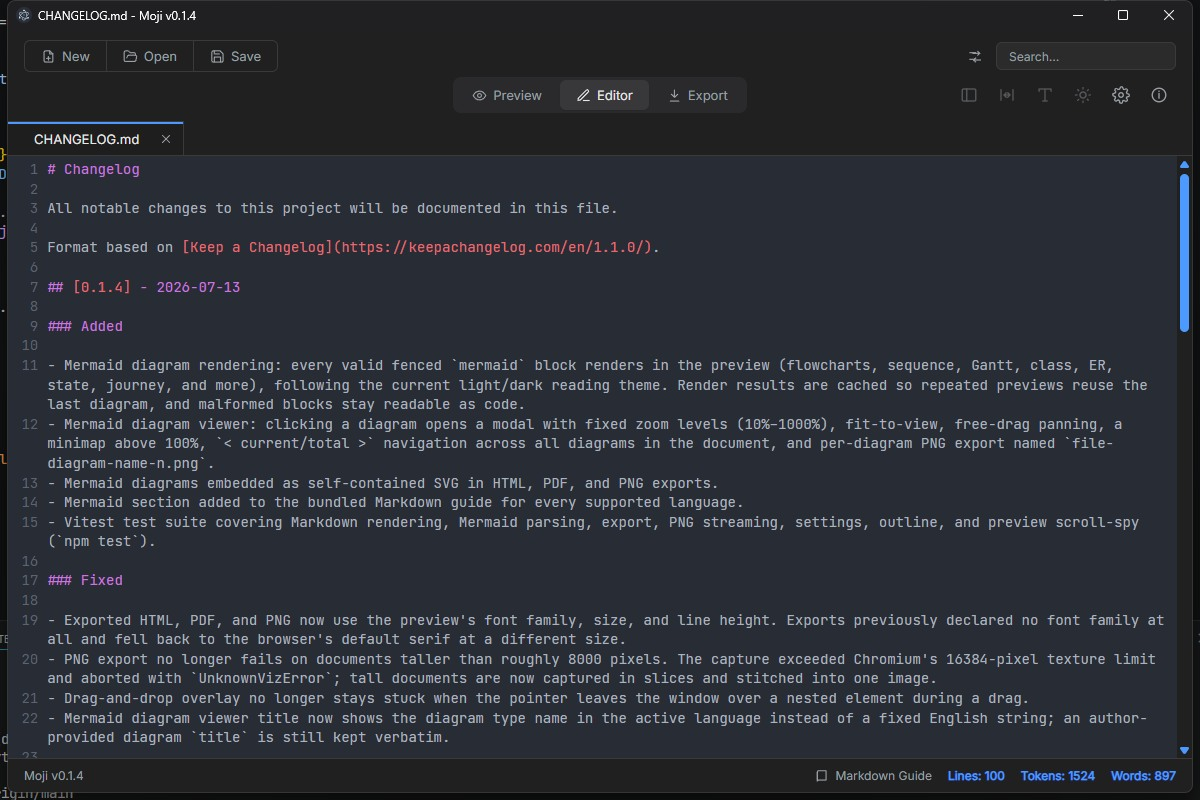
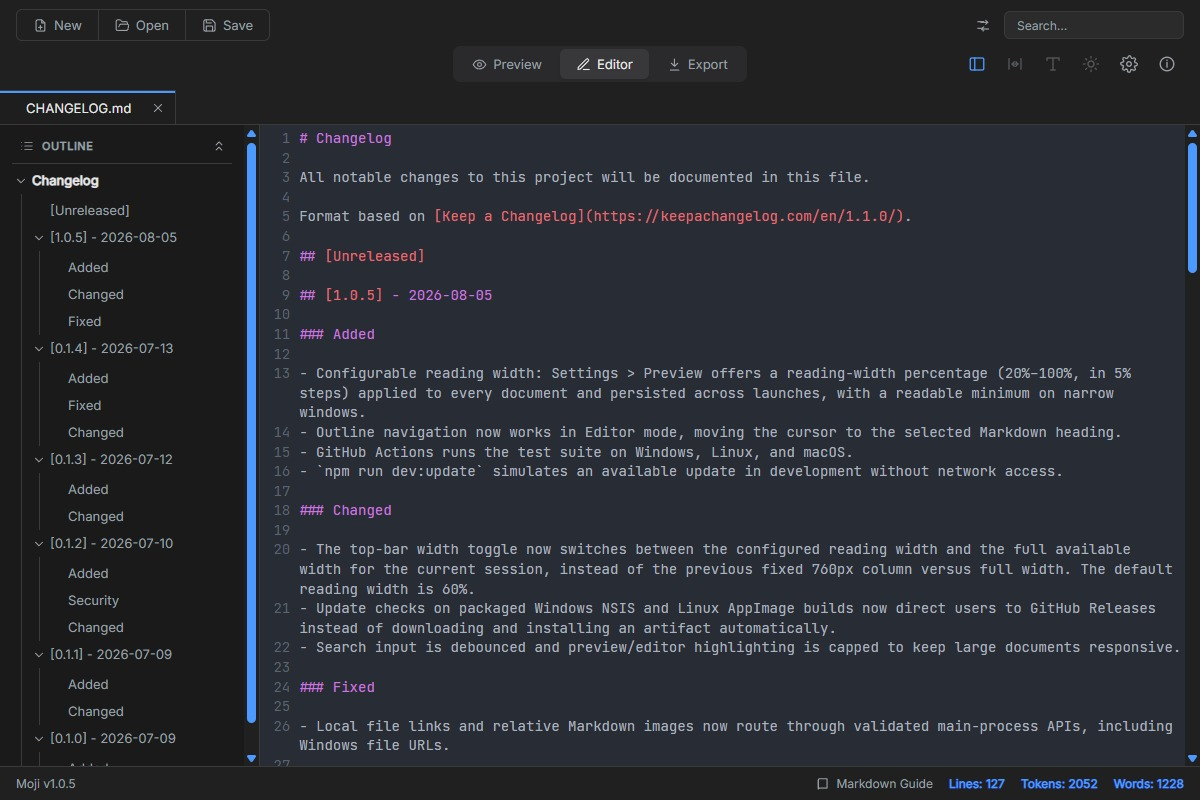
chore(release): 1.0.5

diff --git a/electron/updater.test.ts b/electron/updater.test.ts
@@ -13,7 +13,7 @@ vi.mock('electron', () => ({
     get isPackaged() {
       return state.isPackaged
     },
-    getVersion: () => '0.1.4'
+    getVersion: () => '1.0.5'
   }
 }))
 
@@ -47,7 +47,7 @@ describe('update controller', () => {
 
     const controller = createUpdateController(vi.fn())
 
-    await expect(controller.check()).resolves.toMatchObject({ status: 'unsupported', currentVersion: '0.1.4' })
+    await expect(controller.check()).resolves.toMatchObject({ status: 'unsupported', currentVersion: '1.0.5' })
   })
 
   it('simulates an available update in development when requested', async () => {
@@ -57,22 +57,22 @@ describe('update controller', () => {
     const notify = vi.fn()
     const controller = createUpdateController(notify)
 
-    expect(controller.getState()).toEqual({ status: 'idle', currentVersion: '0.1.4' })
+    expect(controller.getState()).toEqual({ status: 'idle', currentVersion: '1.0.5' })
     await expect(controller.check()).resolves.toEqual({
       status: 'available',
-      currentVersion: '0.1.4',
+      currentVersion: '1.0.5',
       version: '99.0.0',
       error: undefined
     })
     expect(notify).toHaveBeenNthCalledWith(1, {
       status: 'checking',
-      currentVersion: '0.1.4',
+      currentVersion: '1.0.5',
       version: undefined,
       error: undefined
     })
     expect(notify).toHaveBeenNthCalledWith(2, {
       status: 'available',
-      currentVersion: '0.1.4',
+      currentVersion: '1.0.5',
       version: '99.0.0',
       error: undefined
     })
@@ -86,9 +86,9 @@ describe('update controller', () => {
     const controller = createUpdateController(notify)
 
     await controller.check()
-    state.listeners.get('update-available')?.({ version: '0.2.0' } as never)
+    state.listeners.get('update-available')?.({ version: '1.1.0' } as never)
 
-    expect(controller.getState()).toEqual({ status: 'available', currentVersion: '0.1.4', version: '0.2.0', error: undefined })
+    expect(controller.getState()).toEqual({ status: 'available', currentVersion: '1.0.5', version: '1.1.0', error: undefined })
     expect(controller).not.toHaveProperty('download')
     expect(controller).not.toHaveProperty('quitAndInstall')
   })
@@ -99,8 +99,8 @@ describe('update controller', () => {
     const controller = createUpdateController(vi.fn())
 
     await controller.check()
-    state.listeners.get('update-not-available')?.({ version: '0.1.4' } as never)
-    expect(controller.getState()).toMatchObject({ status: 'up-to-date', version: '0.1.4' })
+    state.listeners.get('update-not-available')?.({ version: '1.0.5' } as never)
+    expect(controller.getState()).toMatchObject({ status: 'up-to-date', version: '1.0.5' })
 
     state.checkForUpdates.mockRejectedValueOnce(new Error('offline'))
     await controller.check()

diff --git a/src/index.html b/src/index.html
@@ -13,7 +13,7 @@
       href="https://fonts.googleapis.com/css2?family=Inter:wght@400&display=swap"
       rel="stylesheet"
     />
-    <title>Moji v0.1.4</title>
+    <title>Moji v1.0.5</title>
   </head>
   <body>
     <div id="root"></div>

diff --git a/README.md b/README.md
@@ -8,7 +8,7 @@
 
 <p align="center">Built with Electron, React, TypeScript, and electron-vite.</p>
 
-<p align="center"><strong>Current version:</strong> v0.1.4</p>
+<p align="center"><strong>Current version:</strong> v1.0.5</p>
 
 <p align="center">
   <img src="docs/repository-open-graph.png" alt="reposytory-open-graph" width="100%" />
@@ -16,13 +16,13 @@
 
 <p align="center">
   <strong>Download:</strong>
-  <a href="https://github.com/alexishida/Moji/releases/download/v0.1.4/Moji.Setup.0.1.4.exe">Windows</a>
+  <a href="https://github.com/alexishida/Moji/releases/download/v1.0.5/Moji.Setup.1.0.5.exe">Windows</a>
   ·
-  <a href="https://github.com/alexishida/Moji/releases/download/v0.1.4/Moji-0.1.4-universal.dmg">macOS (DMG)</a>
+  <a href="https://github.com/alexishida/Moji/releases/download/v1.0.5/Moji-1.0.5-universal.dmg">macOS (DMG)</a>
   ·
-  <a href="https://github.com/alexishida/Moji/releases/download/v0.1.4/Moji-0.1.4-x86_64.AppImage">Linux (AppImage)</a>
+  <a href="https://github.com/alexishida/Moji/releases/download/v1.0.5/Moji-1.0.5-x86_64.AppImage">Linux (AppImage)</a>
   ·
-  <a href="https://github.com/alexishida/Moji/releases/download/v0.1.4/Moji-0.1.4-amd64.deb">Linux (DEB)</a>
+  <a href="https://github.com/alexishida/Moji/releases/download/v1.0.5/Moji-1.0.5-amd64.deb">Linux (DEB)</a>
 </p>
 
 
@@ -47,7 +47,7 @@
 - **Markdown guide**: bundled localized reference documents (`samples/markdown-guide.<locale>.md`) opened from the status bar.
 - **Recent files**: Welcome screen shows recently opened Markdown files and lets you reopen or remove entries.
 - **Remembered app state**: window size/position, recent files, last used folder, language, preview typography, reading width, and Markdown preview theme are persisted in user settings.
-- **Automatic updates**: installed Windows NSIS and Linux AppImage builds check GitHub Releases, show download progress, and restart only after protecting unsaved documents.
+- **Update checks**: installed Windows NSIS and Linux AppImage builds check GitHub Releases and link to the release page when a newer version is available, so you can choose the correct artifact.
 - **Markdown themes**: dark/light toggle for rendered Markdown. App chrome remains dark; exports always use the light theme.
 - **Internationalization**: English, Portuguese (Brazil), Spanish, Japanese, Chinese, and Russian. Initial language follows the OS when possible and user choice is persisted.
 - **Security**: sandboxed renderer, context isolation, `nodeIntegration: false`, DOMPurify sanitization, and external links opened in the OS browser.
@@ -149,7 +149,7 @@ To sign locally, install an Apple Developer ID certificate in the keychain and d
 ### Publishing a release
 
 1. Update `version` in `package.json` and `package-lock.json`.
-2. Commit changes, then create and push matching tag such as `v0.2.0`.
+2. Commit changes, then create and push the matching tag, such as `v1.0.5`.
 3. `.github/workflows/release.yml` validates tag, then builds Windows, Linux, and macOS in that order, uploading each platform's artifacts to a draft release. No binary is attached by hand.
 4. Workflow makes GitHub Release public once Windows and Linux have succeeded: NSIS, AppImage, DEB, and the `latest.yml` / `latest-linux.yml` update metadata.
 

diff --git a/CHANGELOG.md b/CHANGELOG.md
@@ -6,13 +6,24 @@ Format based on [Keep a Changelog](https://keepachangelog.com/en/1.1.0/).
 
 ## [Unreleased]
 
+## [1.0.5] - 2026-08-05
+
 ### Added
 
 - Configurable reading width: Settings > Preview offers a reading-width percentage (20%–100%, in 5% steps) applied to every document and persisted across launches, with a readable minimum on narrow windows.
+- Outline navigation now works in Editor mode, moving the cursor to the selected Markdown heading.
+- GitHub Actions runs the test suite on Windows, Linux, and macOS.
+- `npm run dev:update` simulates an available update in development without network access.
 
 ### Changed
 
 - The top-bar width toggle now switches between the configured reading width and the full available width for the current session, instead of the previous fixed 760px column versus full width. The default reading width is 60%.
+- Update checks on packaged Windows NSIS and Linux AppImage builds now direct users to GitHub Releases instead of downloading and installing an artifact automatically.
+- Search input is debounced and preview/editor highlighting is capped to keep large documents responsive.
+
+### Fixed
+
+- Local file links and relative Markdown images now route through validated main-process APIs, including Windows file URLs.
 
 ## [0.1.4] - 2026-07-13
 
